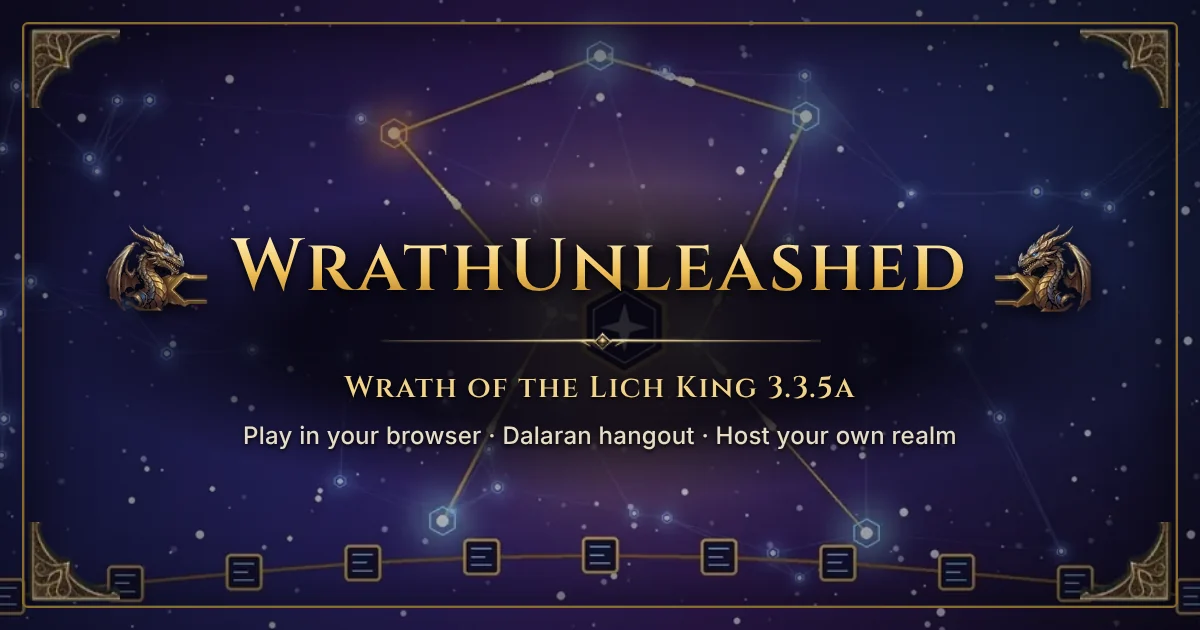
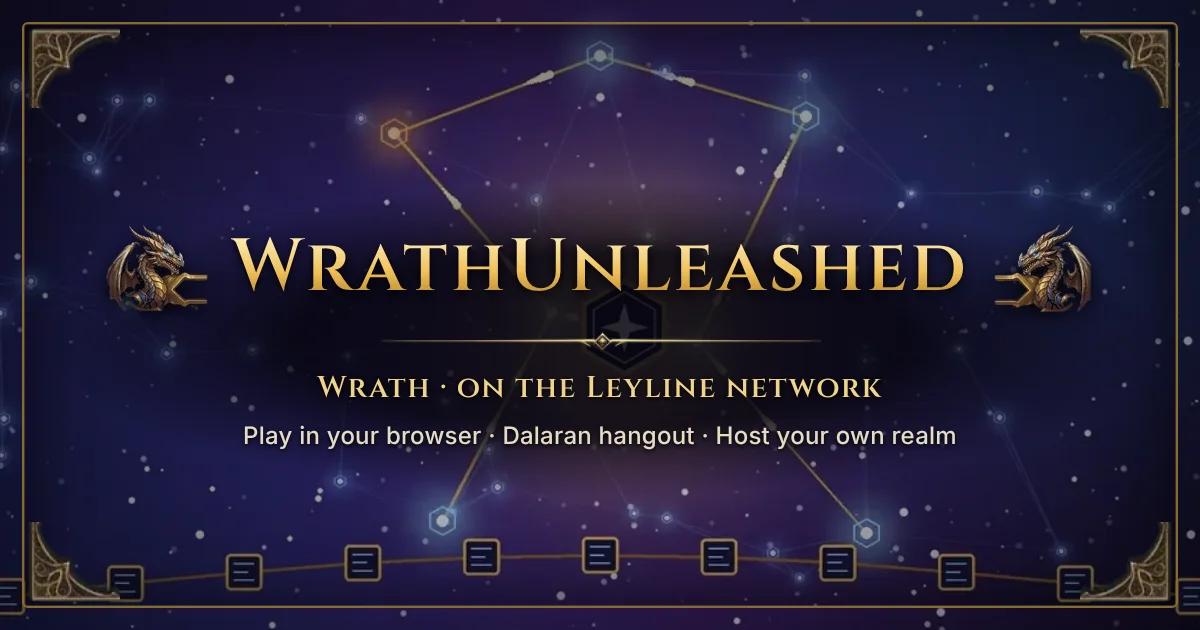
Updates from Claude (autopilot)

Changed region(s): [[0.2467, 0.573, 0.74, 0.6333]]

diff --git a/stream/www-files/ownfiles.js b/stream/www-files/ownfiles.js
@@ -420,7 +420,7 @@ function createUi(opts) {
   const input = el('input', { type: 'file', class: 'hidden', webkitdirectory: '', multiple: '' });
   const chooseBtn = el('button', { class: 'primary', type: 'button', 'data-act': 'choose' }, 'Choose folder');
   const zone = el('div', { class: 'zone', 'data-zone': '' },
-    el('p', {}, 'Drop your World of Warcraft 3.3.5a ', el('b', {}, 'Data'), ' folder here'),
+    el('p', {}, 'Drop your 3.3.5a game ', el('b', {}, 'Data'), ' folder here'),
     el('div', {}, chooseBtn));
   const continueBtn = el('button', { class: 'primary hidden', type: 'button', 'data-act': 'continue' }, 'Continue');
   const forgetBtn = el('button', { class: 'link hidden', type: 'button', 'data-act': 'forget' }, 'Forget my folder');
@@ -429,7 +429,7 @@ function createUi(opts) {
   const msg = el('div', { class: 'msg hidden' });
   const card = el('div', { class: 'card', role: 'dialog', 'aria-labelledby': 'wu-ownfiles-title' },
     el('h1', { id: 'wu-ownfiles-title' }, 'Use my own game files'),
-    el('p', { class: 'sub' }, 'Play with the World of Warcraft 3.3.5a (12340) files already on this computer.'),
+    el('p', { class: 'sub' }, 'Play with the 3.3.5a (12340) game files already on this computer.'),
     zone,
     el('div', { class: 'privacy' }, el('span', {}, '🔒'),
       el('span', {}, 'Your game files stay on this computer. Nothing is uploaded: this browser tab reads the MPQ files straight from your disk.')),

diff --git a/stream/www-files/chain.js b/stream/www-files/chain.js
@@ -249,7 +249,7 @@
     const report = { ok: false, errors: [], warnings: [], checks: [], locale: null, order: [], build: null, listing };
     const has = (rel) => listing.files.some((f) => eqi(f, rel));
     if (!listing.dataFound) {
-      report.errors.push('No common.MPQ found. Choose the "Data" folder inside your World of Warcraft 3.3.5a folder (or the World of Warcraft folder itself).');
+      report.errors.push('No common.MPQ found. Choose the "Data" folder inside your 3.3.5a game folder (or the game folder itself).');
       return report;
     }
     for (const want of ['common.MPQ', 'expansion.MPQ', 'lichking.MPQ']) report.checks.push({ name: want, ok: has(want) });
@@ -271,7 +271,7 @@
       report.warnings.push('expansion.MPQ or lichking.MPQ is missing: this does not look like a complete 3.3.5a install (Wrath content will be missing).');
     }
     report.build = await detectBuild(entries);
-    if (!report.build) report.warnings.push('Could not confirm the build number (no component.wow-*.txt or Wow.exe found). The client expects 3.3.5a (12340).');
+    if (!report.build) report.warnings.push('Could not confirm the build number (no build file found in the folder). The client expects 3.3.5a (12340).');
     else if (report.build.build !== 12340) report.warnings.push(`This folder is build ${report.build.build}; the client expects 3.3.5a (12340).`);
     report.ok = true;
     return report;

diff --git a/hosting/site/join/index.html b/hosting/site/join/index.html
@@ -57,7 +57,7 @@
 
   <div class="card" id="play-card" hidden>
     <h2>3. Play</h2>
-    <p>Use your own World of Warcraft 3.3.5a game files. In the game folder, open <code>Data\enUS\realmlist.wtf</code> (or your language's folder) and make it this one line:</p>
+    <p>Use your own 3.3.5a game files. In the game folder, open <code>Data\enUS\realmlist.wtf</code> (or your language's folder) and make it this one line:</p>
     <div class="line"><code id="realmlist">set realmlist …</code><button class="ghost" data-copy="realmlist">Copy</button></div>
     <ol class="small">
       <li>Start the game and log in with the account from step 2.</li>

diff --git a/tools/art/wu-card.html b/tools/art/wu-card.html
@@ -31,5 +31,5 @@ p.small { margin-top: 12px; font: 500 24px/1.3 system-ui, sans-serif; letter-spa
 </style></head>
 <body><div class="card"><div class="frame"></div>
 <div class="plate"><div class="brand"><h1>WrathUnleashed</h1></div><div class="rule"></div>
-<p>Wrath of the Lich King 3.3.5a</p><p class="small">Play in your browser · Dalaran hangout · Host your own realm</p></div>
+<p>Wrath · on the Leyline network</p><p class="small">Play in your browser · Dalaran hangout · Host your own realm</p></div>
 </div></body></html>

diff --git a/stream/wrath_portal.py b/stream/wrath_portal.py
@@ -491,7 +491,7 @@ def art_url(name: str) -> str:
     return "/wrath/art/" + name
 
 
-CARD_DESCRIPTION = ("Play Wrath of the Lich King 3.3.5a in your browser. "
+CARD_DESCRIPTION = ("Play Wrath in your browser, on the Leyline network. "
                     "Dalaran hangout, Dungeon Finder, host your own realm.")
 
 
@@ -505,7 +505,7 @@ def card_meta(path: str, title: str = "") -> str:
             ("property", "og:title", title), ("property", "og:description", CARD_DESCRIPTION),
             ("property", "og:url", url), ("property", "og:image", img),
             ("property", "og:image:type", "image/webp"), ("property", "og:image:width", "1200"),
-            ("property", "og:image:height", "630"), ("property", "og:image:alt", f"{REALM_NAME}: Wrath of the Lich King 3.3.5a"),
+            ("property", "og:image:height", "630"), ("property", "og:image:alt", f"{REALM_NAME}: Wrath on the Leyline network"),
             ("name", "twitter:card", "summary_large_image"), ("name", "twitter:title", title),
             ("name", "twitter:description", CARD_DESCRIPTION), ("name", "twitter:image", img)]
     return (f'<meta name="description" content="{e(CARD_DESCRIPTION)}"><link rel="canonical" href="{e(url)}">'
@@ -533,7 +533,7 @@ RULE = '<hr class="rule wu-divider">'
 
 def signed_out_page() -> bytes:
     return render(
-        f'{crest(REALM_NAME)}<p class="sub">Wrath of the Lich King 3.3.5a</p>{RULE}'
+        f'{crest(REALM_NAME)}<p class="sub">Wrath · on the Leyline network</p>{RULE}'
         '<p class="center"><a class="btn primary" href="/login?next=%2Fwrath">Sign in with Google or your Hero Key</a></p>'
         '<p class="fine center">Played on Open Vanilla before? Use the same sign-in. Your Wrath login appears here.</p>'
         '<p class="fine center"><a href="/wrath/realms">All realms</a>, including community realms hosted by players</p>',
@@ -672,7 +672,7 @@ def account_page(display: str, user: str, password: str, nonce: str) -> bytes:
         # 2. The whole world: own game files
         f'<div class="realm"><h2>{html.escape(REALM_NAME)}</h2>'
         f'<div class="tags"><span class="tag">The whole world</span><span class="tag">Your own 3.3.5a files</span>{live}</div>'
-        '<p>The full game, on the same realm and with the same characters. Uses your own World of Warcraft 3.3.5a '
+        '<p>The full game, on the same realm and with the same characters. Uses your own 3.3.5a '
         'game files, read on your computer and never uploaded.</p>'
         + ('<p><a class="btn" href="/wrath/play?mode=own">Play in the browser with my game folder</a></p>'
            if ownfiles_on() else '')
@@ -684,7 +684,7 @@ def account_page(display: str, user: str, password: str, nonce: str) -> bytes:
         f'<div class="field" id="pw" data-v="{html.escape(password)}">{dots}</div>'
         '<button class="ghost" id="show" type="button">Show</button>'
         '<button class="ghost" data-copy="pw" type="button">Copy</button></div>'
-        f'<ol>{pkg}<li>Run <b>Play WrathUnleashed.bat</b> and pick your own WoW 3.3.5a folder, '
+        f'<ol>{pkg}<li>Run <b>Play WrathUnleashed.bat</b> and pick your own 3.3.5a game folder, '
         f'or set <code>realmlist {html.escape(PUBLIC_HOST)}</code> in your own client.</li>'
         '<li>Log in with the account and password above.</li></ol>'
         '<p class="fine">This login is yours alone. Sign in here again any time to see it.</p></details></div>'
@@ -859,7 +859,7 @@ def realms_page() -> bytes:
     body = (f'<style>{REALM_CSS}</style>'
             f'<div class="top"><span class="eyebrow">{html.escape(REALM_NAME)}</span>'
             '<a class="keylink" href="/wrath">Back</a></div>'
-            f'{crest("Realms")}<p class="sub">Wrath of the Lich King 3.3.5a</p>{RULE}'
+            f'{crest("Realms")}<p class="sub">Wrath · on the Leyline network</p>{RULE}'
             + official +
             '<h2 class="eyebrow">Community realms</h2>'
             + community +

diff --git a/stream/tests/test_art.py b/stream/tests/test_art.py
@@ -90,8 +90,8 @@ for path, page in (("/wrath", get("/wrath")[2].decode()), ("/wrath/realms", get(
             f'<meta property="og:image" content="{img}">', '<meta property="og:image:width" content="1200">',
             '<meta property="og:image:height" content="630">', '<meta name="twitter:card" content="summary_large_image">',
             f'<meta name="twitter:image" content="{img}">', '<meta property="og:title" content="',
-            '<meta name="twitter:title" content="', '<meta property="og:description" content="Play Wrath of the Lich King 3.3.5a in your browser.',
-            '<meta name="twitter:description" content="Play Wrath of the Lich King 3.3.5a in your browser.']
+            '<meta name="twitter:title" content="', '<meta property="og:description" content="Play Wrath in your browser, on the Leyline network.',
+            '<meta name="twitter:description" content="Play Wrath in your browser, on the Leyline network.']
     missing = [w for w in want if w not in page]
     check(f"preview tags on {path}", not missing, missing)
     head = page.split("</head>", 1)[0]
